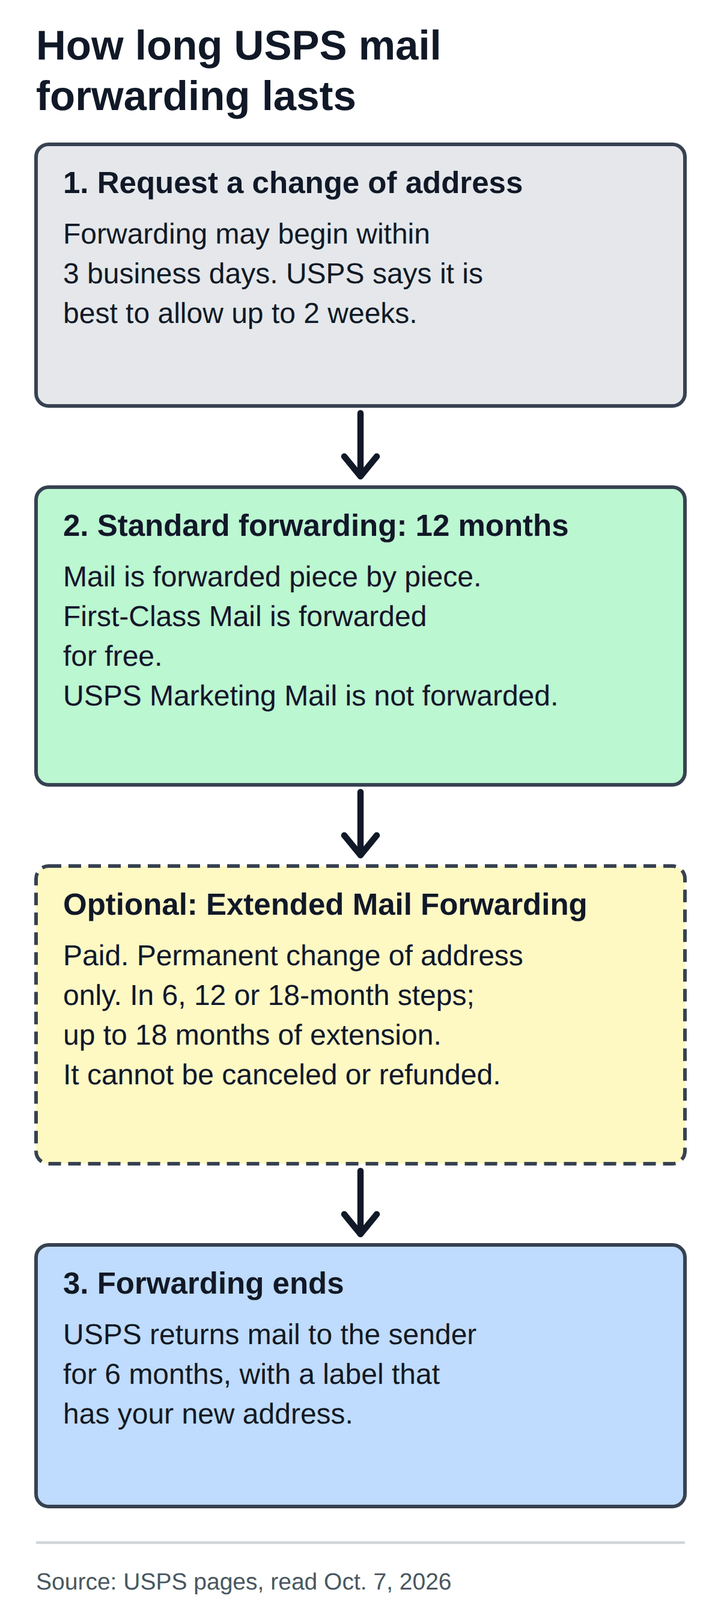
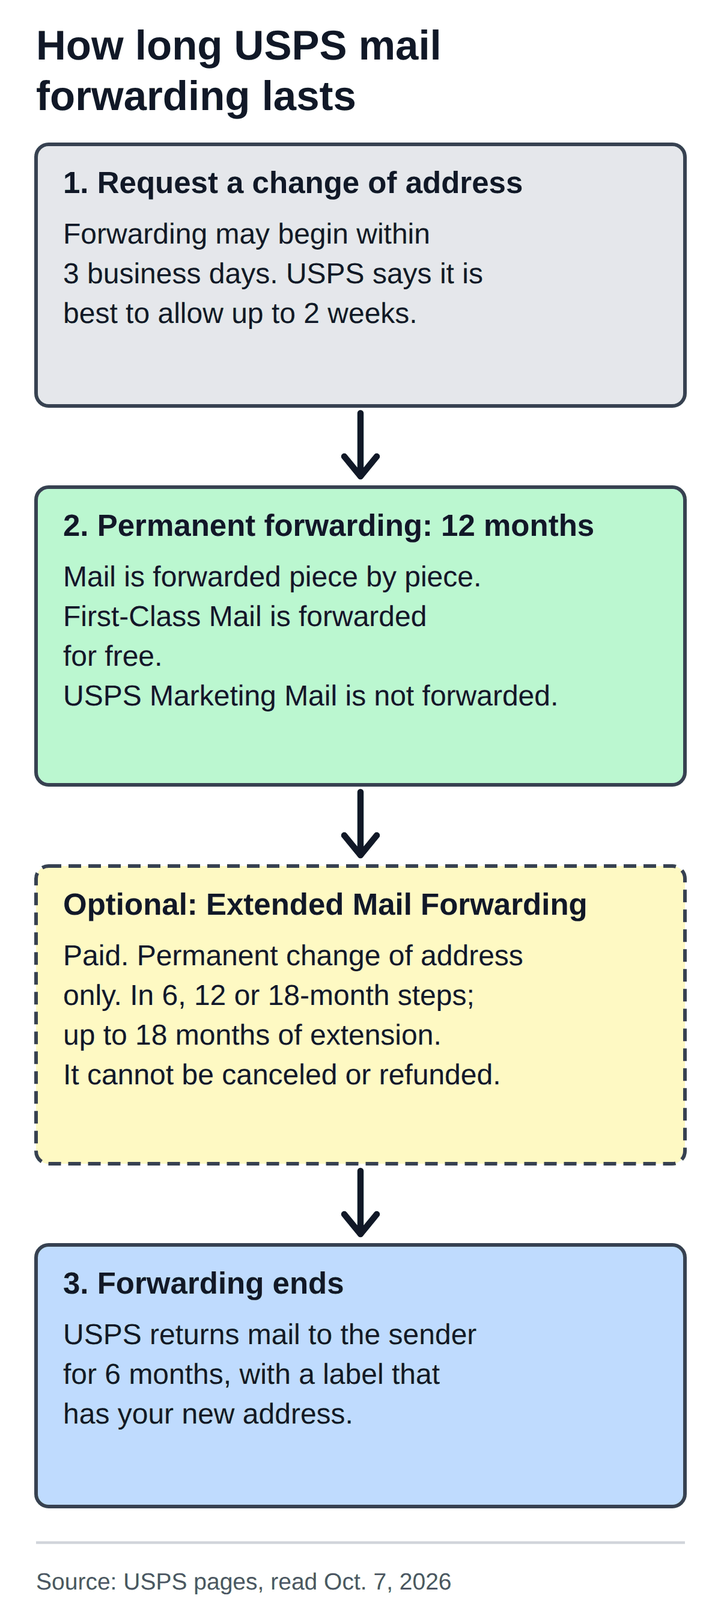
Apply Gate 2 fixes to REAL ID, PreCheck and mail forwarding drafts; record Gate 2 results
Claude-Session: https://claude.ai/code/session_01BXtGEA3Qzg6u2ejRb8jbFU

Changed region(s): [[0.1233, 0.3115, 0.8325, 0.3426]]

diff --git a/docs/content-backlog.md b/docs/content-backlog.md
@@ -38,13 +38,13 @@ Pilot 12 plan: 6 published + 0 ready + 6 draft + 0 briefs = 12 slots, 4 per lane
 | 2 | `tsa-3-1-1-liquids-rule` | What Is the TSA 3-1-1 Liquids Rule? What Counts, What's Exempt, What to Expect | `what is the tsa liquids rule` | published | counted | Week 1. Lane: airport security rules. Gate 1 and Gate 2 passed 2026-10-07; user published in WordPress 2026-10-07; live URL https://statesideexplained.com/tsa-3-1-1-liquids-rule/ ; live QA passed 2026-10-07 (see `editorial/qa/` record). No deadline; re-read both TSA pages if the article is revisited |
 | 3 | `forever-stamp-how-it-works` | How Does a Forever Stamp Work? What It Covers and Doesn't | `how does a forever stamp work` | published | counted | Week 1. Lane: postal service and stamps. No price number in article text. Gate 1 and Gate 2 passed 2026-10-07; pre-approval USPS re-check passed 2026-10-07; user published in WordPress 2026-10-07; live URL https://statesideexplained.com/forever-stamp-how-it-works/ ; live QA passed 2026-10-07 (see `editorial/qa/` record). Re-read the four USPS pages if the article is revisited (prices and rules change) |
 | 4 | `first-day-of-winter-2026` | When Is the First Day of Winter in 2026? Two Answers | `when is the first day of winter 2026` | published | counted | Lane: US dates, seasons, holidays. Brief 2026-10-07 (USNO + NOAA NCEI). Dec 1 meteorological, Dec 21 solstice. Draft and diagram written and Gate 1 done 2026-10-07 (`content/drafts/`, `editorial/qa/` record); Gate 2 PASS (ChatGPT, commit `2edbc32`, 2026-10-07); recommended source re-check done 2026-10-07 with no difference; user approved the move to `content/ready/` 2026-10-07. WordPress draft created 2026-10-07 (post 25); user published 2026-10-07; live URL https://statesideexplained.com/first-day-of-winter-2026/ ; live QA passed 2026-10-07 (see `editorial/qa/` record). Re-read both sources if the article is revisited (lane 1: recommended) Re-check recommended, not mandatory. Search demand not measured |
-| 5 | `thanksgiving-2026-date` | When Is Thanksgiving 2026 in the U.S.? How the Date Is Set | `when is thanksgiving 2026` | draft | counted | Lane: US dates, seasons, holidays. Brief 2026-10-07 (OPM + 5 U.S.C. 6103). Thursday, Nov 26. Angle approved 2026-10-07: explain how the date is set (not a one-line answer). Search demand not measured Draft, diagram and Gate 1 done 2026-10-07 (`content/drafts/`, `editorial/qa/` record; source notes in `research/sources/`). Official pages re-opened at drafting (OPM tables 2024 to 2030, statute 2023 edition). Not sent to Gate 2; not approved; not on WordPress. |
-| 6 | `federal-holiday-weekend-observed` | When a Federal Holiday Falls on a Weekend, What Changes? | `federal holiday falls on a weekend` | draft | counted | Lane: US dates, seasons, holidays. Brief 2026-10-07 (OPM + 5 U.S.C. 6103(b)). July 2026 USPS example NOT used here (user decision 2026-10-07; OPM's rule is not USPS operations). Search demand not measured Draft, diagram and Gate 1 done 2026-10-07 (`content/drafts/`, `editorial/qa/` record; source notes in `research/sources/`). OPM page re-opened and 16 strings tested; statute and executive order text read; five weekend examples (2026 to 2028). Not sent to Gate 2; not approved; not on WordPress. |
-| 7 | `real-id-to-fly-what-tsa-accepts` | Do You Need a REAL ID to Fly? What TSA Accepts | `do i need a real id to fly` | draft | counted | Lane: airport security rules. Brief 2026-10-07 (three TSA pages). Mandatory strict re-check. ConfirmID fee excluded (user decision 2026-10-07). Search demand not measured Draft, diagram and Gate 1 done 2026-10-07 (`content/drafts/`, `editorial/qa/` record; source notes in `research/sources/`). Three TSA pages re-opened and tested (34 phrases); fee amount not used. Mandatory re-check before approval and before publishing. Not sent to Gate 2; not approved; not on WordPress. |
+| 5 | `thanksgiving-2026-date` | When Is Thanksgiving 2026 in the U.S.? How the Date Is Set | `when is thanksgiving 2026` | draft | counted | Lane: US dates, seasons, holidays. Brief 2026-10-07 (OPM + 5 U.S.C. 6103). Thursday, Nov 26. Angle approved 2026-10-07: explain how the date is set (not a one-line answer). Search demand not measured Draft, diagram and Gate 1 done 2026-10-07 (`content/drafts/`, `editorial/qa/` record; source notes in `research/sources/`). Official pages re-opened at drafting (OPM tables 2024 to 2030, statute 2023 edition). Not sent to Gate 2; not approved; not on WordPress. Gate 2 PASS (ChatGPT, 2026-10-07). |
+| 6 | `federal-holiday-weekend-observed` | When a Federal Holiday Falls on a Weekend, What Changes? | `federal holiday falls on a weekend` | draft | counted | Lane: US dates, seasons, holidays. Brief 2026-10-07 (OPM + 5 U.S.C. 6103(b)). July 2026 USPS example NOT used here (user decision 2026-10-07; OPM's rule is not USPS operations). Search demand not measured Draft, diagram and Gate 1 done 2026-10-07 (`content/drafts/`, `editorial/qa/` record; source notes in `research/sources/`). OPM page re-opened and 16 strings tested; statute and executive order text read; five weekend examples (2026 to 2028). Not sent to Gate 2; not approved; not on WordPress. Gate 2 PASS (ChatGPT, 2026-10-07). |
+| 7 | `real-id-to-fly-what-tsa-accepts` | Do You Need a REAL ID to Fly? What TSA Accepts | `do i need a real id to fly` | draft | counted | Lane: airport security rules. Brief 2026-10-07 (three TSA pages). Mandatory strict re-check. ConfirmID fee excluded (user decision 2026-10-07). Search demand not measured Draft, diagram and Gate 1 done 2026-10-07 (`content/drafts/`, `editorial/qa/` record; source notes in `research/sources/`). Three TSA pages re-opened and tested (34 phrases); fee amount not used. Mandatory re-check before approval and before publishing. Not sent to Gate 2; not approved; not on WordPress. Gate 2 FIX REQUIRED (ChatGPT, 2026-10-07): first answer and meta now answer "is a REAL ID required?" directly; fixed locally, awaiting re-review of the fix commit. |
 | 8 | `tsa-thanksgiving-food-carry-on` | Can You Bring Thanksgiving Food Through TSA? | `can you bring thanksgiving food through tsa` | brief | deferred (not counted) | Lane: airport security rules. Brief 2026-10-07. Time-gated: best in mid-November after TSA's 2026 release; likely after the 4-week window. Mandatory re-check. Only 11 of 59 Food-page items read so far Decided 2026-10-07: write in mid-November after the 2026 notice; outside the 4-week pilot. |
-| 9 | `tsa-precheck-what-it-changes` | What Is TSA PreCheck? What It Changes at the Checkpoint | `what is tsa precheck` | draft | counted | Lane: airport security rules. Brief 2026-10-07 (one TSA page; FAQ pages still to read). No prices. Mandatory re-check. Search demand not measured Draft, diagram and Gate 1 done 2026-10-07 (`content/drafts/`, `editorial/qa/` record; source notes in `research/sources/`). Three TSA pages re-opened and tested (30 phrases); no prices, offers or wait statistic. Mandatory re-check before approval and before publishing. Not sent to Gate 2; not approved; not on WordPress. |
-| 10 | `usps-hold-mail-how-it-works` | How Does USPS Hold Mail Work? Limits and Steps | `how does usps hold mail work` | draft | counted | Lane: postal service and stamps. Brief 2026-10-07 (three USPS pages). Mandatory re-check. Search demand not measured Draft, diagram and Gate 1 done 2026-10-07 (`content/drafts/`, `editorial/qa/` record; source notes in `research/sources/`). Three USPS pages re-opened and tested (35 phrases). Mandatory re-check before approval and before publishing. Not sent to Gate 2; not approved; not on WordPress. |
-| 11 | `usps-mail-forwarding-how-long` | How Long Does USPS Mail Forwarding Last? | `how long does usps forward mail` | draft | counted | Lane: postal service and stamps. Brief 2026-10-07 (two USPS pages). No prices or fees. Page/FAQ periodicals discrepancy recorded. Mandatory re-check. Search demand not measured Drafted 2026-10-07; three USPS pages re-read, source notes, diagram and Gate 1 QA done (28 claims pass); not sent to Gate 2 |
+| 9 | `tsa-precheck-what-it-changes` | What Is TSA PreCheck? What It Changes at the Checkpoint | `what is tsa precheck` | draft | counted | Lane: airport security rules. Brief 2026-10-07 (one TSA page; FAQ pages still to read). No prices. Mandatory re-check. Search demand not measured Draft, diagram and Gate 1 done 2026-10-07 (`content/drafts/`, `editorial/qa/` record; source notes in `research/sources/`). Three TSA pages re-opened and tested (30 phrases); no prices, offers or wait statistic. Mandatory re-check before approval and before publishing. Not sent to Gate 2; not approved; not on WordPress. Gate 2 FIX REQUIRED (ChatGPT, 2026-10-07): first sentence reworded and diagram label "You can keep on:"; fixed locally, awaiting re-review of the fix commit. |
+| 10 | `usps-hold-mail-how-it-works` | How Does USPS Hold Mail Work? Limits and Steps | `how does usps hold mail work` | draft | counted | Lane: postal service and stamps. Brief 2026-10-07 (three USPS pages). Mandatory re-check. Search demand not measured Draft, diagram and Gate 1 done 2026-10-07 (`content/drafts/`, `editorial/qa/` record; source notes in `research/sources/`). Three USPS pages re-opened and tested (35 phrases). Mandatory re-check before approval and before publishing. Not sent to Gate 2; not approved; not on WordPress. Gate 2 PASS (ChatGPT, 2026-10-07). Publish before the mail forwarding article. |
+| 11 | `usps-mail-forwarding-how-long` | How Long Does USPS Mail Forwarding Last? | `how long does usps forward mail` | draft | counted | Lane: postal service and stamps. Brief 2026-10-07 (two USPS pages). No prices or fees. Page/FAQ periodicals discrepancy recorded. Mandatory re-check. Search demand not measured Drafted 2026-10-07; three USPS pages re-read, source notes, diagram and Gate 1 QA done (28 claims pass); not sent to Gate 2 Gate 2 FIX REQUIRED (ChatGPT, 2026-10-07): 12 months stated as the permanent-change figure in first answer, meta and diagram; fixed locally, awaiting re-review. Keep the internal link to Hold Mail only if Hold Mail is published first. |
 | 12 | `usps-post-office-thanksgiving` | Is the Post Office Open on Thanksgiving? What USPS Says | `is the post office open on thanksgiving` | brief | deferred (not counted) | Lane: postal service and stamps. Brief 2026-10-07. Time-gated: wait for USPS's 2026 release (2025 came Nov 13); likely after the 4-week window. Mandatory re-check Decided 2026-10-07: write in mid-November after the 2026 notice; outside the 4-week pilot. |
 | 13 | `power-bank-on-a-plane-tsa-faa` | Can You Bring a Power Bank on a Plane? TSA and FAA Rules | `can you bring a power bank on a plane` | published | counted | Lane: airport security rules. Brief 2026-10-07 (two TSA pages, FAA PackSafe page updated Oct 2, 2026). Draft, diagram and Gate 1 done 2026-10-07 (`content/drafts/`, `editorial/qa/` record); Gate 2 PASS (ChatGPT, commit `2edbc32`, 2026-10-07). Title shortened to "Can You Bring a Power Bank on a Plane? TSA and FAA Rules". Mandatory pre-approval re-check done 2026-10-07 (29 phrases, no difference); user approved the move to `content/ready/` 2026-10-07. WordPress draft created 2026-10-07 (post id 28, media id 27). User published in WordPress 2026-10-07; live URL https://statesideexplained.com/power-bank-on-a-plane-tsa-faa/ ; live QA structure and metadata checked by Claude 2026-10-07 (see `editorial/qa/` record); the pre-publish re-check right before Publish is not recorded. No deadline; re-read the official pages if the article is revisited Airline rules not researched. Search demand not measured |
 | 14 | `usps-informed-delivery-how-it-works` | What Is USPS Informed Delivery? How the Free Preview Works | `what is usps informed delivery` | published | counted | Lane: postal service and stamps. Brief 2026-10-07 (USPS FAQ dated Sep 30, 2026, plus the usps.com page). Draft, diagram and Gate 1 done 2026-10-07 (`content/drafts/`, `editorial/qa/` record); Gate 2 PASS (ChatGPT, commit `2edbc32`, 2026-10-07). The sign-up-letter subheading is included because the USPS FAQ confirms the process twice. Mobile app and some FAQ sections not read and not described. Mandatory pre-approval re-check done 2026-10-07 (36 + 8 phrases, no difference); user approved the move to `content/ready/` 2026-10-07. WordPress draft created 2026-10-07 (post id 30, media id 29). User published in WordPress 2026-10-07; live URL https://statesideexplained.com/usps-informed-delivery-how-it-works/ ; live QA structure and metadata checked by Claude 2026-10-07 (see `editorial/qa/` record); the pre-publish re-check right before Publish is not recorded. No deadline; re-read the official pages if the article is revisited Search demand not measured |

diff --git a/content/drafts/usps-mail-forwarding-how-long.md b/content/drafts/usps-mail-forwarding-how-long.md
@@ -1,19 +1,19 @@
 ---
 title: "How Long Does USPS Mail Forwarding Last?"
 slug: usps-mail-forwarding-how-long
-meta_description: "USPS standard mail forwarding lasts 12 months, with paid extensions for permanent moves. See what is forwarded and what happens when it ends."
+meta_description: "For a permanent change of address, USPS mail forwarding lasts 12 months. See what is forwarded, extension options and what happens when it ends."
 category: Postal service and stamps
 focus_keyword: how long does usps forward mail
 status: draft
 date: 2026-10-07
-internal_link_candidates: usps-hold-mail-how-it-works (drafted), usps-informed-delivery-how-it-works (once published)
+internal_link_candidates: usps-hold-mail-how-it-works (drafted; keep the link only if Hold Mail is published first, otherwise remove it), usps-informed-delivery-how-it-works (once published)
 image: assets/optimized/usps-mail-forwarding-how-long.png
-image_alt: "Timeline of USPS mail forwarding. Request a change of address: forwarding may begin within 3 business days; allow up to 2 weeks. Standard forwarding: 12 months. Optional paid Extended Mail Forwarding for permanent changes of address: 6, 12 or 18 more months, up to 18. Forwarding ends: USPS returns mail to the sender for 6 months with a new-address label."
+image_alt: "Timeline of USPS mail forwarding. Request a change of address: forwarding may begin within 3 business days; allow up to 2 weeks. Permanent forwarding: 12 months. Optional paid Extended Mail Forwarding for permanent changes of address: 6, 12 or 18 more months, up to 18. Forwarding ends: USPS returns mail to the sender for 6 months with a new-address label."
 ---
 
 # How Long Does USPS Mail Forwarding Last?
 
-**USPS says standard mail forwarding lasts 12 months.** After that, USPS says it returns mail to the sender for 6 months with a label that has your new address. A paid extension is possible for a permanent change of address.
+**For a permanent change of address, USPS says standard mail forwarding lasts 12 months.** For a temporary change, USPS says mail is forwarded for the period you specify. A paid extension is possible for a permanent change of address.
 
 This article covers what USPS's pages say. The wording is as of October 7, 2026, and comes from the three USPS pages listed at the end. It gives no prices and no advice on which option to choose.
 
@@ -29,7 +29,7 @@ USPS says mail is forwarded piece by piece. Its forwarding page lists what is fo
 
 The two USPS pages do not describe periodicals the same way. The forwarding page says periodicals are forwarded for free and gives no separate time limit. The FAQ says a permanent change of address forwards "primarily First-Class Mail service for 12 months and Periodicals for 60 days". The FAQ adds that it generally does not forward USPS Marketing Mail or Package Services Mail. This article reports each page's wording as it stands.
 
-![Timeline of USPS mail forwarding. Request a change of address: forwarding may begin within 3 business days; allow up to 2 weeks. Standard forwarding: 12 months. Optional paid Extended Mail Forwarding for permanent changes of address: 6, 12 or 18 more months, up to 18. Forwarding ends: USPS returns mail to the sender for 6 months with a new-address label.](assets/optimized/usps-mail-forwarding-how-long.png)
+![Timeline of USPS mail forwarding. Request a change of address: forwarding may begin within 3 business days; allow up to 2 weeks. Permanent forwarding: 12 months. Optional paid Extended Mail Forwarding for permanent changes of address: 6, 12 or 18 more months, up to 18. Forwarding ends: USPS returns mail to the sender for 6 months with a new-address label.](assets/optimized/usps-mail-forwarding-how-long.png)
 
 ## Extended Mail Forwarding
 

diff --git a/content/drafts/tsa-precheck-what-it-changes.md b/content/drafts/tsa-precheck-what-it-changes.md
@@ -8,12 +8,12 @@ status: draft
 date: 2026-10-07
 internal_link_candidates: tsa-3-1-1-liquids-rule (used once, in the table)
 image: assets/optimized/tsa-precheck-what-it-changes.png
-image_alt: "Diagram of what TSA PreCheck changes, according to TSA, in three steps. Step 1: to get the PreCheck lane, a Known Traveler Number goes in the airline reservation and the PreCheck indicator must show on the boarding pass; benefits are not automatic. Step 2: in a PreCheck lane, electronics and 3-1-1 liquids stay in your bag, and belts, light jackets and shoes stay on you. Step 3: all travelers will be screened, and no individual is guaranteed expedited screening."
+image_alt: "Diagram of what TSA PreCheck changes, according to TSA, in three steps. Step 1: to get the PreCheck lane, a Known Traveler Number goes in the airline reservation and the PreCheck indicator must show on the boarding pass; benefits are not automatic. Step 2: in a PreCheck lane, electronics and 3-1-1 liquids stay in your bag, and you can keep belts, light jackets and shoes on. Step 3: all travelers will be screened, and no individual is guaranteed expedited screening."
 ---
 
 # What Is TSA PreCheck? What It Changes at the Checkpoint
 
-**TSA PreCheck is a TSA program that, in TSA's words, gives trusted travelers a speedier security experience in dedicated lanes across the U.S.** TSA says that in a PreCheck lane you leave electronics and 3-1-1 liquids in your bag and leave on belts, light jackets and shoes. TSA also says no individual is guaranteed expedited screening.
+**TSA PreCheck is a TSA program that offers eligible travelers a speedier security experience in dedicated lanes across the U.S.** TSA says that in a PreCheck lane you leave electronics and 3-1-1 liquids in your bag and leave on belts, light jackets and shoes. TSA also says no individual is guaranteed expedited screening.
 
 This article covers what TSA's pages say. The wording is as of October 7, 2026, and comes from the three TSA pages listed at the end. It describes the program and does not recommend enrolling.
 
@@ -27,7 +27,7 @@ This article covers what TSA's pages say. The wording is as of October 7, 2026, 
 
 TSA's FAQ adds that if a PreCheck lane is not available, a traveler with a PreCheck boarding pass may be able to keep 3-1-1 liquids and laptops in the bag and shoes and light jackets on in the standard lane. It says eligible passengers should check with the TSA officer on duty.
 
-![Diagram of what TSA PreCheck changes, according to TSA, in three steps. Step 1: to get the PreCheck lane, a Known Traveler Number goes in the airline reservation and the PreCheck indicator must show on the boarding pass; benefits are not automatic. Step 2: in a PreCheck lane, electronics and 3-1-1 liquids stay in your bag, and belts, light jackets and shoes stay on you. Step 3: all travelers will be screened, and no individual is guaranteed expedited screening.](assets/optimized/tsa-precheck-what-it-changes.png)
+![Diagram of what TSA PreCheck changes, according to TSA, in three steps. Step 1: to get the PreCheck lane, a Known Traveler Number goes in the airline reservation and the PreCheck indicator must show on the boarding pass; benefits are not automatic. Step 2: in a PreCheck lane, electronics and 3-1-1 liquids stay in your bag, and you can keep belts, light jackets and shoes on. Step 3: all travelers will be screened, and no individual is guaranteed expedited screening.](assets/optimized/tsa-precheck-what-it-changes.png)
 
 ## It is not guaranteed
 

diff --git a/editorial/qa/usps-mail-forwarding-how-long.md b/editorial/qa/usps-mail-forwarding-how-long.md
@@ -62,3 +62,21 @@ Method: the three USPS pages were opened again in the built-in browser on 2026-1
 ### Re-check obligations
 
 **Mandatory**: re-read S1, S2 and S3 right before the user approves moving the article to `ready`, and again right before publishing. Compare 12 months, 6/12/18-month increments and the 18-month maximum, 3 business days / 2 weeks, 6 months of return-to-sender, the periodicals wording on both pages, and the FAQ page dates. If a page differs or cannot be opened, return to draft or do not publish.
+
+## Gate 2 (ChatGPT, 2026-10-07, result reported by the user)
+
+**FIX REQUIRED, applied.** The 12 months is now tied to a permanent change of address in the first answer, the meta description and the diagram, and the temporary-change wording no longer conflicts with the first answer.
+
+| Change | Before | After |
+|---|---|---|
+| `meta_description` (144 characters) | "USPS standard mail forwarding lasts 12 months, with paid extensions for permanent moves. See what is forwarded and what happens when it ends." | "For a permanent change of address, USPS mail forwarding lasts 12 months. See what is forwarded, extension options and what happens when it ends." |
+| First three sentences | "USPS says standard mail forwarding lasts 12 months. After that, USPS says it returns mail to the sender for 6 months ... A paid extension is possible for a permanent change of address." | "For a permanent change of address, USPS says standard mail forwarding lasts 12 months. For a temporary change, USPS says mail is forwarded for the period you specify. A paid extension is possible for a permanent change of address." |
+| Diagram, step 2 title | "2. Standard forwarding: 12 months" | "2. Permanent forwarding: 12 months" |
+| Alt text (front matter and body, identical, 357 characters) | "Standard forwarding: 12 months." | "Permanent forwarding: 12 months." |
+| `internal_link_candidates` | Hold Mail (drafted) | Hold Mail (drafted; keep the link only if Hold Mail is published first, otherwise remove it) |
+
+Claim check: "for a permanent change of address ... 12 months" is S2-1 (the FAQ ties 12 months to a permanent change of address) together with S1-1 (the forwarding page's 12 months); "for a temporary change ... the period you specify" is S2-2 ("a specified period of time"); the extension sentence is S3-2. The sentence about the 6 months of return-to-sender is no longer in the introduction; it stays in the section "When forwarding ends" (S1-12). The diagram was re-rendered (1200x2697, no text overflow; pixel hash md5 of RGB 676147eb...); the PNG and SVG on the device match the cloud render. Result: pass.
+
+**Publish-order condition (Gate 2).** The internal link to the Hold Mail article (C26) may stay only after the Hold Mail article is live. Publish Hold Mail first; if this article must go first, remove the link. Check this at the `ready` move and before publishing.
+
+Not sent back to Gate 2 yet. For the changed articles, ChatGPT will re-review the fix commit.

diff --git a/editorial/qa/real-id-to-fly-what-tsa-accepts.md b/editorial/qa/real-id-to-fly-what-tsa-accepts.md
@@ -54,3 +54,19 @@ Method: all three TSA pages were opened again in the built-in browser on 2026-10
 ### Re-check obligations
 
 **Mandatory**: re-read S1, S2 and S3 right before the user approves moving the article to `ready`, and again right before publishing. Compare the acceptable-ID list, the May 7, 2025 wording, the expired-ID and children statements and the ConfirmID description. If a page differs or cannot be opened, return to draft or do not publish.
+
+## Gate 2 (ChatGPT, 2026-10-07, result reported by the user)
+
+**FIX REQUIRED, applied.** The first answer and the meta description now answer directly whether a REAL ID is required.
+
+| Change | Before | After |
+|---|---|---|
+| `meta_description` (138 characters) | "TSA says adults need an ID on its list, and a state license must be REAL ID compliant. See what else TSA accepts and what happens without one." | "No. Adults need an ID on TSA's list; a REAL ID-compliant state license or ID is one option. See alternatives and what happens without one." |
+| Bold first sentence | "You need an ID that is on TSA's list, and a REAL ID is one of them." | "No—not necessarily. You need an ID on TSA's list, and a REAL ID-compliant state license or ID is one option." |
+| Next sentences | "TSA says adults 18 and older ... checkpoint. A state license or ID card must be REAL ID compliant to be on the list. A U.S. passport is also on the list." | "TSA says adults 18 and older must show valid identification at the airport checkpoint. A U.S. passport is also on the list." then "A state license or ID card must be REAL ID compliant to be on the list." |
+
+Claim check for the new wording (Gate 1 re-run on the changed sentences): "You need an ID on TSA's list" and "adults 18 and older must show valid identification" are TSA statements already in the Gate 1 table; "a REAL ID-compliant state license or ID is one option" and "a U.S. passport is also on the list" are on TSA's list (the ID table in the article); "not necessarily" follows from the TSA identification page, which tells passengers to travel with an acceptable alternative ID such as a passport or to enroll for a REAL ID. Result: pass. No diagram change (the flowchart already starts from "is the ID on TSA's list"). Alt text unchanged (540 characters; Gate 2 did not ask to shorten it).
+
+Left as it was, for the re-review: the section "What TSA says about REAL ID" still reports, attributed to TSA's REAL ID page, that U.S. travelers must be REAL ID compliant to board domestic flights, followed by the identification page's alternatives. The two statements are both TSA's and are shown together.
+
+Not sent back to Gate 2 yet. For the changed articles, ChatGPT will re-review the fix commit.

diff --git a/editorial/qa/tsa-precheck-what-it-changes.md b/editorial/qa/tsa-precheck-what-it-changes.md
@@ -54,3 +54,17 @@ Method: three TSA pages were opened in the built-in browser on 2026-10-07. The b
 ### Re-check obligations
 
 **Mandatory**: re-read S1, S2 and S3 right before the user approves moving the article to `ready`, and again right before publishing. Compare the benefits sentence, the "not guaranteed" caveat, the indicator and KTN wording, the children's conditions, the five-year statement and the provider names. If a page differs or cannot be opened, return to draft or do not publish.
+
+## Gate 2 (ChatGPT, 2026-10-07, result reported by the user)
+
+**FIX REQUIRED, applied.**
+
+| Change | Before | After |
+|---|---|---|
+| Bold first sentence | "TSA PreCheck is a TSA program that, in TSA's words, gives trusted travelers a speedier security experience in dedicated lanes across the U.S." | "TSA PreCheck is a TSA program that offers eligible travelers a speedier security experience in dedicated lanes across the U.S." |
+| Diagram, step 2 label | "Stays on you:" | "You can keep on:" |
+| Alt text (front matter and body, identical, 469 characters) | "belts, light jackets and shoes stay on you" | "you can keep belts, light jackets and shoes on" |
+
+Claim check: the new first sentence is a paraphrase of S1-1 ("gives trusted travelers a speedier security experience in dedicated lanes across the U.S."); "eligible travelers" follows TSA's use of "PreCheck eligible" in the FAQ (S2-8) and drops the quotation attribution, which the next sentence ("TSA says ...") carries. "You can keep on" matches TSA's "leave on belts, light jackets, and shoes" (S1). The diagram was re-rendered (1200x1947, no text overflow; pixel hash md5 of RGB e91371ac...); the PNG and SVG on the device match the cloud render. Result: pass.
+
+Not sent back to Gate 2 yet. For the changed articles, ChatGPT will re-review the fix commit.

diff --git a/docs/decision-log.md b/docs/decision-log.md
@@ -380,3 +380,13 @@ The user published both articles in WordPress and sent the live URLs: https://st
 
 **Going forward.** New posts are created with comments and pings closed by default; still confirm both are closed when creating each WordPress draft and in live QA. Revisit this policy only if the user decides to open comments.
 
+## 2026-10-07 — Gate 2 for the six new drafts, fixes applied
+
+ChatGPT's Gate 2 result (reported by the user): PASS for `thanksgiving-2026-date`, `federal-holiday-weekend-observed` and `usps-hold-mail-how-it-works`; FIX REQUIRED for three.
+
+1. `real-id-to-fly-what-tsa-accepts`: the first answer and the meta description now answer "is a REAL ID required?" directly ("No—not necessarily ...").
+2. `tsa-precheck-what-it-changes`: the bold first sentence now reads "offers eligible travelers a speedier security experience"; the diagram label "Stays on you:" became "You can keep on:" (alt text updated to match).
+3. `usps-mail-forwarding-how-long`: the 12 months is stated as the permanent-change figure in the first answer, the meta description and the diagram ("2. Permanent forwarding: 12 months"); the temporary-change wording ("the period you specify") is now in the first three sentences.
+
+Each fix was re-checked against the source notes and recorded in the article's `editorial/qa/` file. Condition from Gate 2: the forwarding article keeps its internal link to the Hold Mail article only if Hold Mail is published first; otherwise the link is removed. Not done: the fixed articles have not gone back to Gate 2 (ChatGPT re-reviews the fix commit); no WordPress upload, no ready move, no publishing. Counts: published 6; ready 0; draft 6; brief 0 (pilot) plus 2 deferred; idea 1.
+

diff --git a/content/drafts/real-id-to-fly-what-tsa-accepts.md b/content/drafts/real-id-to-fly-what-tsa-accepts.md
@@ -1,7 +1,7 @@
 ---
 title: "Do You Need a REAL ID to Fly? What TSA Accepts"
 slug: real-id-to-fly-what-tsa-accepts
-meta_description: "TSA says adults need an ID on its list, and a state license must be REAL ID compliant. See what else TSA accepts and what happens without one."
+meta_description: "No. Adults need an ID on TSA's list; a REAL ID-compliant state license or ID is one option. See alternatives and what happens without one."
 category: Airport security rules
 focus_keyword: do i need a real id to fly
 status: draft
@@ -13,7 +13,7 @@ image_alt: "Flowchart of what ID TSA takes. An adult 18 or older checks whether 
 
 # Do You Need a REAL ID to Fly? What TSA Accepts
 
-**You need an ID that is on TSA's list, and a REAL ID is one of them.** TSA says adults 18 and older must show valid identification at the airport checkpoint. A state license or ID card must be REAL ID compliant to be on the list. A U.S. passport is also on the list.
+**No—not necessarily. You need an ID on TSA's list, and a REAL ID-compliant state license or ID is one option.** TSA says adults 18 and older must show valid identification at the airport checkpoint. A U.S. passport is also on the list. A state license or ID card must be REAL ID compliant to be on the list.
 
 This article covers what TSA's pages say. The wording is as of October 7, 2026, and comes from the three TSA pages listed at the end. TSA says its list "is subject to change without notice" and encourages travelers to check it again before traveling.
 

diff --git a/editorial/qa/usps-hold-mail-how-it-works.md b/editorial/qa/usps-hold-mail-how-it-works.md
@@ -54,3 +54,7 @@ Method: the three USPS pages were opened again in the built-in browser on 2026-1
 ### Re-check obligations
 
 **Mandatory**: re-read S1, S2 and S3 right before the user approves moving the article to `ready`, and again right before publishing. Compare the numbers (3 days, 30 days, 3 days between holds, 2:00 a.m. Central Time, 3 AM ET, 10 days), the account and identity requirement, the in-person route and the FAQ page date. If a page differs or cannot be opened, return to draft or do not publish.
+
+## Gate 2 (ChatGPT, 2026-10-07, result reported by the user)
+
+**PASS.** No changes requested. The mandatory re-check of the three USPS pages before the move to `ready` and again before publishing still applies. Publish order: this article goes live before `usps-mail-forwarding-how-long`, which links to it.

diff --git a/editorial/qa/federal-holiday-weekend-observed.md b/editorial/qa/federal-holiday-weekend-observed.md
@@ -52,3 +52,7 @@ Method: the OPM page was opened again in the built-in browser on 2026-10-07 and 
 ### Re-check obligations
 
 Recommended (lane 1): re-read the OPM overview, both footnotes and the 2026 to 2028 tables before the user approves moving the article to `ready`. If a date or the rule wording changed, return to draft.
+
+## Gate 2 (ChatGPT, 2026-10-07, result reported by the user)
+
+**PASS.** No changes requested. A recommended (not mandatory) re-check of the official pages before the user approves the move to `ready` still applies, because the dates are fixed by statute and OPM tables that rarely change.

diff --git a/editorial/qa/thanksgiving-2026-date.md b/editorial/qa/thanksgiving-2026-date.md
@@ -48,3 +48,7 @@ Method: both official pages were opened again in the built-in browser on 2026-10
 ### Re-check obligations
 
 Recommended (lane 1): re-read S1 and S2 before the user approves moving the article to `ready`. If OPM's 2026 date or the statute's wording differs, return to draft.
+
+## Gate 2 (ChatGPT, 2026-10-07, result reported by the user)
+
+**PASS.** No changes requested. A recommended (not mandatory) re-check of the official pages before the user approves the move to `ready` still applies, because the dates are fixed by statute and OPM tables that rarely change.
